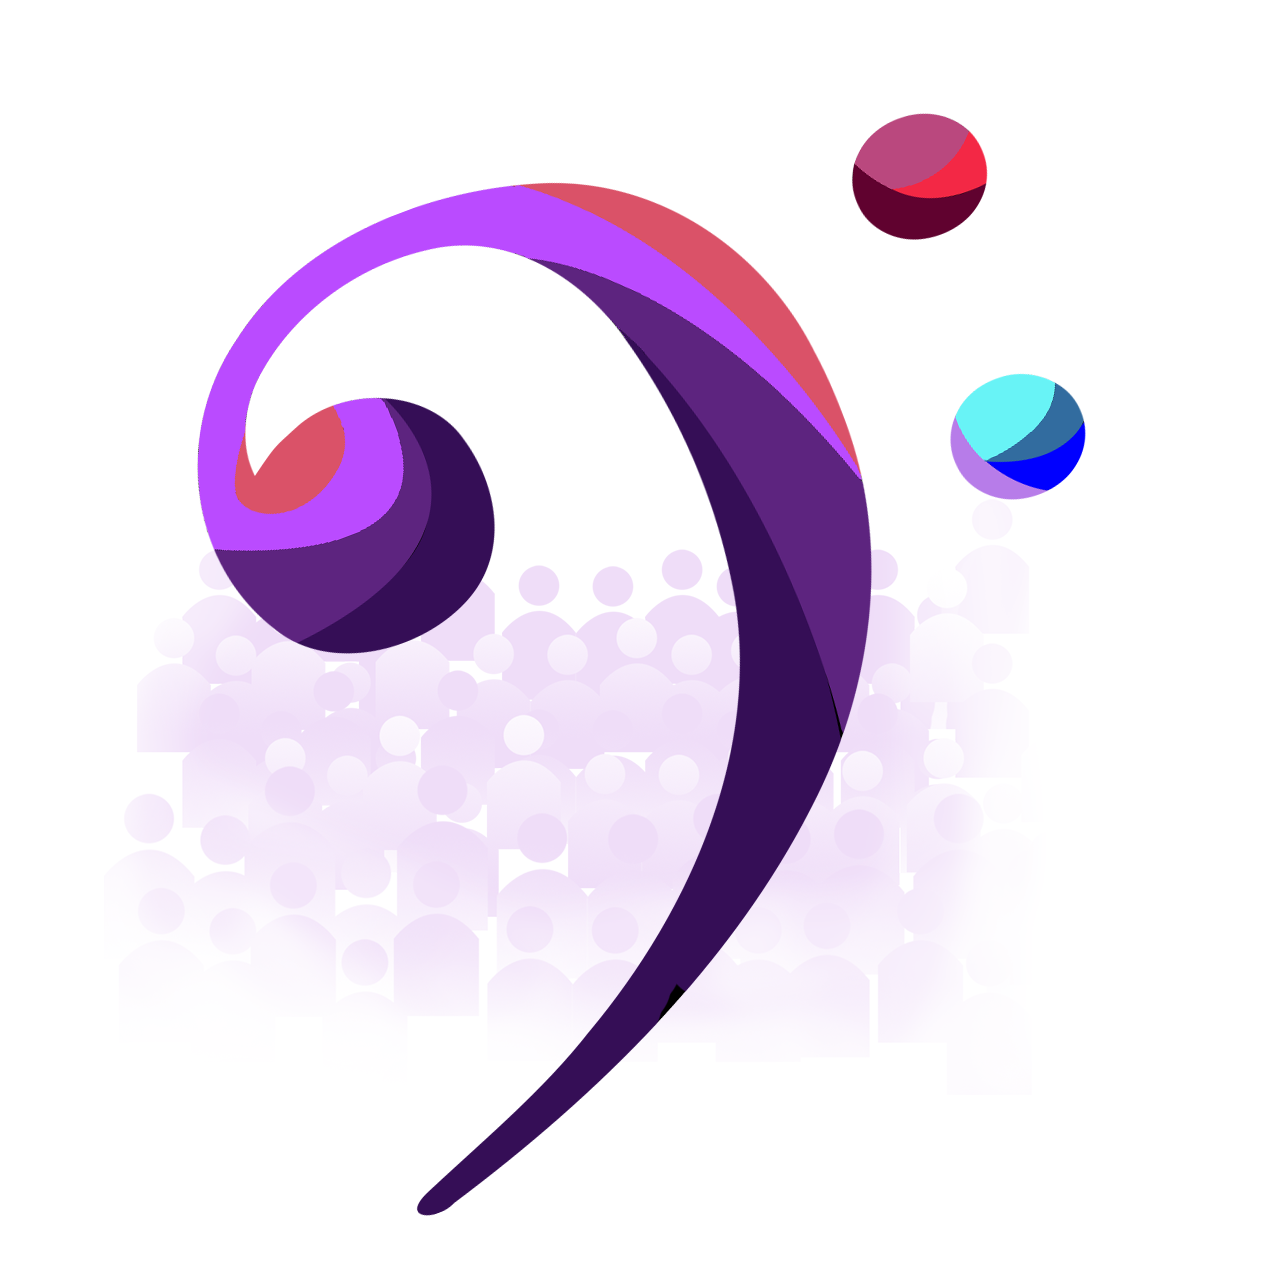
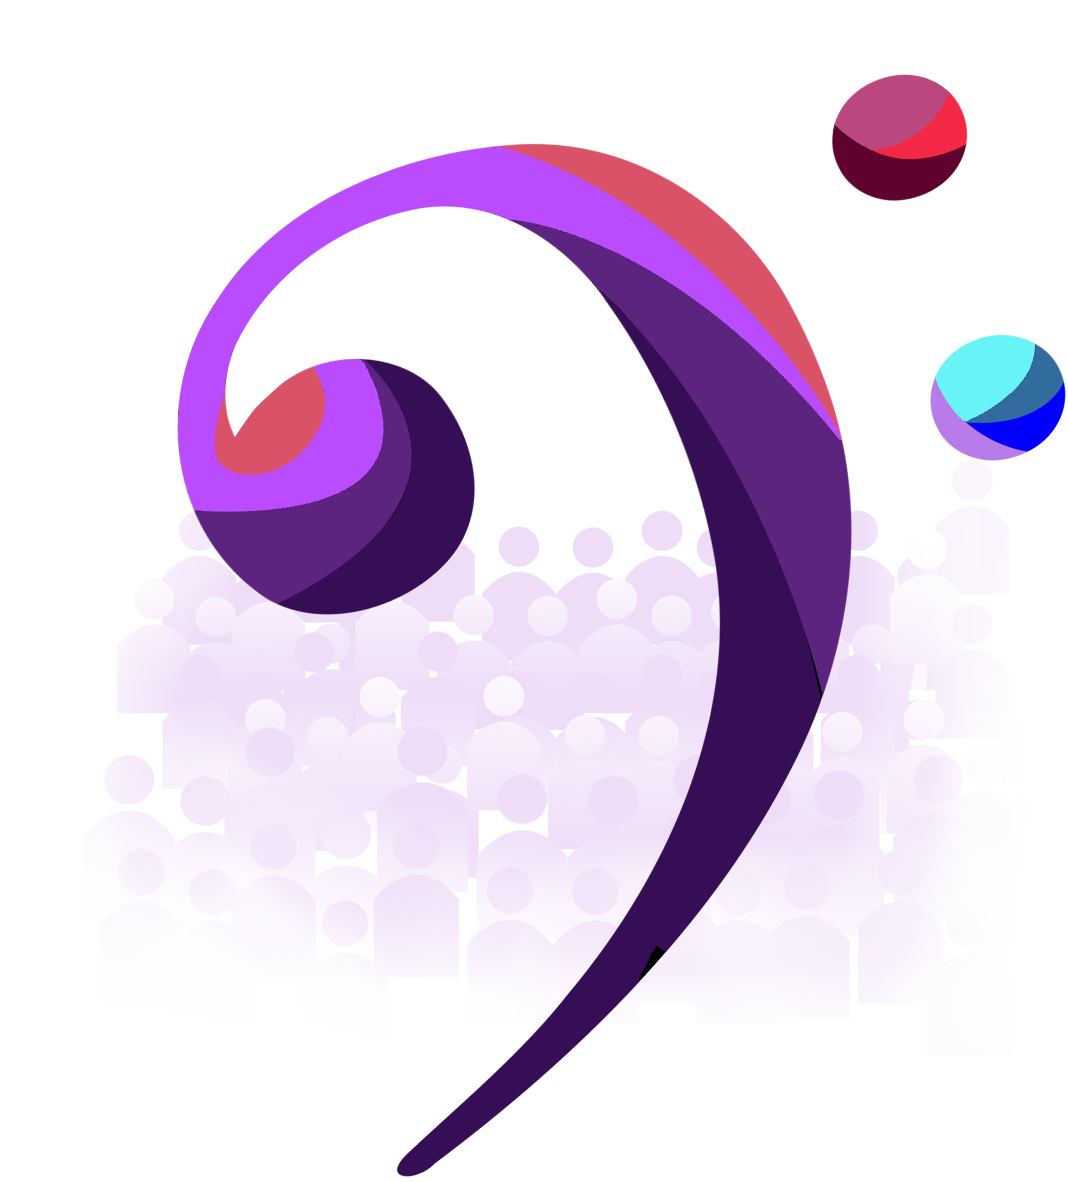
homepage and nav front done missing responsive

diff --git a/app/assets/stylesheets/components/_home.scss b/app/assets/stylesheets/components/_home.scss
@@ -1,7 +1,7 @@
 .home{
   display: flex;
   justify-content: flex-start;
-  height: 100%;
+  height: 90%;
 }
 
 .home-left{
@@ -31,12 +31,58 @@
 .home-right img{
   height: 35em;
   position: absolute;
-  bottom: -2.5em;
-  right: -6em;
+  bottom: -1.2em;
+  right: -1em;
 }
 
 .home-button-primary{
   background-color: #3E3BF5;
-  color: #FFF;
+  color: #fff;
+  padding: 0.4em 3em;
+  border-radius: 21px;
+  border: solid #3E3BF5 2px;
+  margin-right: 2em;
 
+  moz-transition: all .4s ease-in-out;
+  -o-transition: all .4s ease-in-out;
+  -webkit-transition: all .4s ease-in-out;
+  transition: all .4s ease-in-out;
+}
+
+.home-button-primary:hover{
+  box-shadow: 1px 1px 6px rgba(0, 0, 0, 0.16);
+  background-color: #7de2e3;
+  border: solid #7de2e3 2px;
+  cursor: pointer;
+
+  moz-transition: all .4s ease-in-out;
+  -o-transition: all .4s ease-in-out;
+  -webkit-transition: all .4s ease-in-out;
+  transition: all .4s ease-in-out;
+}
+
+.home-button-secondary{
+  background-color: rgba(255, 255, 255, 0);
+  color: #969696;
+  padding: 0.4em 3em;
+  border-radius: 21px;
+  border: solid #969696 2px;
+  margin-right: 2em;
+
+  moz-transition: all .4s ease-in-out;
+  -o-transition: all .4s ease-in-out;
+  -webkit-transition: all .4s ease-in-out;
+  transition: all .4s ease-in-out;
+}
+
+.home-button-secondary:hover{
+  box-shadow: 1px 1px 6px rgba(0, 0, 0, 0.16);
+  background-color: #969696;
+  color: white;
+  cursor: pointer;
+
+  moz-transition: all .4s ease-in-out;
+  -o-transition: all .4s ease-in-out;
+  -webkit-transition: all .4s ease-in-out;
+  transition: all .4s ease-in-out;
 }

diff --git a/app/assets/stylesheets/components/_navbar.scss b/app/assets/stylesheets/components/_navbar.scss
@@ -1,4 +1,43 @@
-head {
+#header {
   background: white;
-  box-shadow: 0px 0px 6px rbga(0, 0, 0, 0.16);
+  box-shadow: 0px 0px 6px rgba(0, 0, 0, 0.16);
+}
+
+#header img{
+  height: 3em;
+  margin-top: 0.2em;
+  margin-bottom: 0.2em;
+  margin-left: -2em;
+}
+
+#header img:hover{
+  opacity: 0.8;
+  cursor: pointer;
+}
+
+#header ul{
+  list-style-type: none;
+  display: flex;
+  justify-content: space-between;
+  align-items: center;
+}
+
+.navbar-links{
+  display: flex;
+}
+
+#header li{
+  margin-right: 5em;
+  color: #707070;
+  font-weight: normal;
+  font-size: 0.75em;
+  cursor: pointer;
+}
+
+#header li:hover{
+  margin-right: 5em;
+  color: #404040;
+  font-weight: normal;
+  font-size: 0.75em;
+  cursor: pointer;
 }
